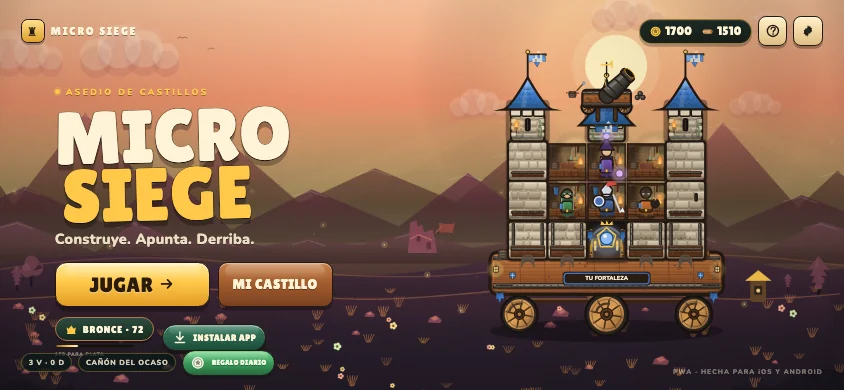
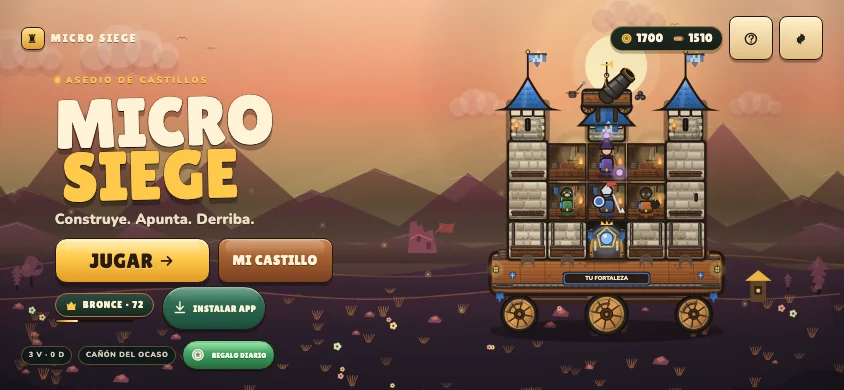
fix: fit the interface to phone screens

diff --git a/src/styles.css b/src/styles.css
@@ -2095,28 +2095,6 @@ button:focus-visible,
   }
 }
 
-.unit-pips {
-  position: absolute;
-  left: calc(var(--u) * 6);
-  bottom: calc(var(--u) * 6);
-  display: flex;
-  gap: calc(var(--u) * 2);
-}
-
-.unit-pips i {
-  width: calc(var(--u) * 4);
-  height: calc(var(--u) * 4);
-  border-radius: 50%;
-  border: calc(var(--u) * 1) solid rgba(255, 243, 214, 0.25);
-  background: rgba(0, 0, 0, 0.25);
-}
-
-.unit-pips i.on {
-  border-color: var(--gold);
-  background: linear-gradient(180deg, #fff1c9, var(--gold));
-  box-shadow: 0 0 calc(var(--u) * 3) rgba(255, 201, 74, 0.4);
-}
-
 @media (min-width: 1000px) {
   .unit-grid {
     grid-template-columns: repeat(8, minmax(0, 1fr));
@@ -2684,13 +2662,6 @@ kbd {
 }
 
 
-.build-summary b {
-  color: var(--gold);
-  font-family: var(--font-display);
-  font-size: calc(var(--u) * 13);
-  font-weight: 400;
-  letter-spacing: 0.04em;
-}
 
 
 .hud-top .vs-mark {
@@ -2836,5 +2807,135 @@ kbd {
 @media (orientation: landscape) and (max-height: 600px) {
   .home-bottom {
     padding-bottom: max(calc(var(--u) * 30), env(safe-area-inset-bottom));
+  }
+}
+
+/* ── mobile fit: short landscape phones ────────────────────────────────
+   The playfield is full-bleed and crops vertically, while the interface
+   keeps legible type, thumb-sized controls and a compact home column. */
+
+@media (orientation: landscape) and (max-height: 600px) {
+  .hero-copy {
+    top: 19%;
+  }
+
+  .game-title {
+    font-size: calc(var(--u) * 104);
+  }
+
+  .tagline {
+    margin-bottom: calc(var(--u) * 14);
+  }
+
+  .hero-meta {
+    margin-top: calc(var(--u) * 5);
+  }
+
+  .rank-next,
+  .home-note {
+    display: none;
+  }
+
+  .home-bottom {
+    padding-top: calc(var(--u) * 10);
+  }
+
+  .home-stats .btn {
+    min-height: 30px;
+  }
+
+  /* Icon buttons become real thumb targets; 44 CSS px regardless of art scale. */
+  .icon-btn {
+    width: 44px;
+    height: 44px;
+  }
+
+  .btn {
+    min-height: 44px;
+  }
+
+  .sheet-tab {
+    min-height: 32px;
+    font-size: max(calc(var(--u) * 16), 12px);
+    display: flex;
+    align-items: center;
+  }
+
+  .unit-slot {
+    min-height: 28px;
+  }
+
+  .build-battle {
+    height: max(calc(var(--u) * 52), 44px);
+  }
+
+  .build-hint {
+    font-size: max(calc(var(--u) * 11), 10px);
+  }
+
+  .combatant-rank,
+  .battle-arena {
+    display: none;
+  }
+
+  .hud-top {
+    padding-top: max(calc(var(--u) * 16), env(safe-area-inset-top));
+  }
+
+  .unit-row {
+    top: calc(var(--u) * 112);
+  }
+
+  .timer {
+    font-size: max(calc(var(--u) * 18), 14px);
+    padding: calc(var(--u) * 5) max(calc(var(--u) * 14), 12px);
+  }
+
+  .wind-label {
+    display: none;
+  }
+
+  .wind-pill {
+    min-height: 24px;
+    padding: calc(var(--u) * 3) max(calc(var(--u) * 8), 8px);
+    font-size: max(calc(var(--u) * 10), 10px);
+  }
+
+  .wind-dial {
+    width: 22px;
+    height: 22px;
+  }
+
+  #wind-needle {
+    height: 8px;
+    margin-top: -8px;
+  }
+
+  .aim-stat {
+    min-width: max(calc(var(--u) * 98), 80px);
+    padding: calc(var(--u) * 7) max(calc(var(--u) * 12), 8px) calc(var(--u) * 9);
+  }
+
+  .aim-stat span {
+    font-size: max(calc(var(--u) * 8.5), 8px);
+  }
+
+  .aim-stat b {
+    font-size: max(calc(var(--u) * 22), 16px);
+  }
+
+  .stat-gauge {
+    height: max(calc(var(--u) * 3.5), 4px);
+  }
+
+  .battle-hint {
+    font-size: max(calc(var(--u) * 12), 10px);
+    bottom: calc(var(--u) * 18);
+  }
+
+  .result-actions .btn,
+  .pause-card .btn,
+  .help-close {
+    min-height: 44px;
   }
 }

diff --git a/src/game/art.ts b/src/game/art.ts
@@ -2947,13 +2947,38 @@ function drawIntro(ctx: CanvasRenderingContext2D, battle: Battle, time: number):
   drawSmallText(ctx, `${battle.player.trophies} COPAS`, 250 - slide * 0.4, 340, 13, GOLD)
   drawSmallText(ctx, `${battle.enemy.trophies} COPAS`, WORLD.w - 250 + slide * 0.4, 340, 13, GOLD)
   ctx.save()
-  ctx.globalAlpha = 0.16
+  ctx.beginPath()
+  ctx.moveTo(-100, 208)
+  ctx.lineTo(560 + slide, 208)
+  ctx.lineTo(500 + slide, 420)
+  ctx.lineTo(-100, 420)
+  ctx.closePath()
+  ctx.clip()
+  ctx.globalAlpha = 0.11
   ctx.strokeStyle = '#fff3d6'
   ctx.lineWidth = 11
-  for (let i = 0; i < 7; i += 1) {
+  for (let i = 0; i < 9; i += 1) {
     ctx.beginPath()
-    ctx.moveTo(-80 + i * 90, 420)
-    ctx.lineTo(80 + i * 90, 208)
+    ctx.moveTo(-100 + i * 90, 440)
+    ctx.lineTo(120 + i * 90, 188)
+    ctx.stroke()
+  }
+  ctx.restore()
+  ctx.save()
+  ctx.beginPath()
+  ctx.moveTo(WORLD.w + 100, 208)
+  ctx.lineTo(WORLD.w - 560 - slide, 208)
+  ctx.lineTo(WORLD.w - 500 - slide, 420)
+  ctx.lineTo(WORLD.w + 100, 420)
+  ctx.closePath()
+  ctx.clip()
+  ctx.globalAlpha = 0.11
+  ctx.strokeStyle = '#fff3d6'
+  ctx.lineWidth = 11
+  for (let i = 0; i < 9; i += 1) {
+    ctx.beginPath()
+    ctx.moveTo(WORLD.w + 100 - i * 90, 440)
+    ctx.lineTo(WORLD.w - 120 - i * 90, 188)
     ctx.stroke()
   }
   ctx.restore()

diff --git a/public/sw.js b/public/sw.js
@@ -1,5 +1,5 @@
 /* Micro Siege offline shell. Relative to the deployed base path. */
-const CACHE = 'micro-siege-v3'
+const CACHE = 'micro-siege-v4'
 const BASE = new URL('./', self.location).pathname
 const CORE = [
   BASE,

diff --git a/README.md b/README.md
@@ -18,8 +18,8 @@ PWA instalable y offline. En Chrome/Edge pulsa **Instalar app**. En iPhone/iPad:
 - **Castillo con 9 módulos**: cimientos, muros, torres y tejado. Si destruyes el apoyo, lo que hay encima se derrumba.
 - **8 unidades** con proyectiles, roles y animaciones propias: arquera, caballero, bombardero, asedio, maga, ingeniera, bruto y ballestera.
 - **Progresión local**: monedas, madera, mejoras de módulos y unidades, copas, rangos Bronce/Plata/Oro/Leyenda, regalo diario y cuatro arenas.
-- **PWA real**: manifiesto con capturas y atajos, service worker (`micro-siege-v3`), caché offline, iconos maskable, pantalla completa y orientación bloqueada.
-- **iOS + Android**: 16:9 adaptable, full-bleed en móvil horizontal, safe areas, controles táctiles, giro obligatorio en vertical e instalación guiada en iOS.
+- **PWA real**: manifiesto con capturas y atajos, service worker (`micro-siege-v4`), caché offline, iconos maskable, pantalla completa y orientación bloqueada.
+- **iOS + Android**: 16:9 adaptable, full-bleed en móvil horizontal, safe areas, objetivos táctiles de 44 px y controles táctiles, giro obligatorio en vertical e instalación guiada en iOS.
 - **Audio procedural** con WebAudio: cañones, impactos, derrumbes, monedas, victoria/derrota y música ambiental.
 - **Cero dependencias de runtime**: TypeScript + Canvas 2D + Vite. Todo el arte se dibuja por código.
 
